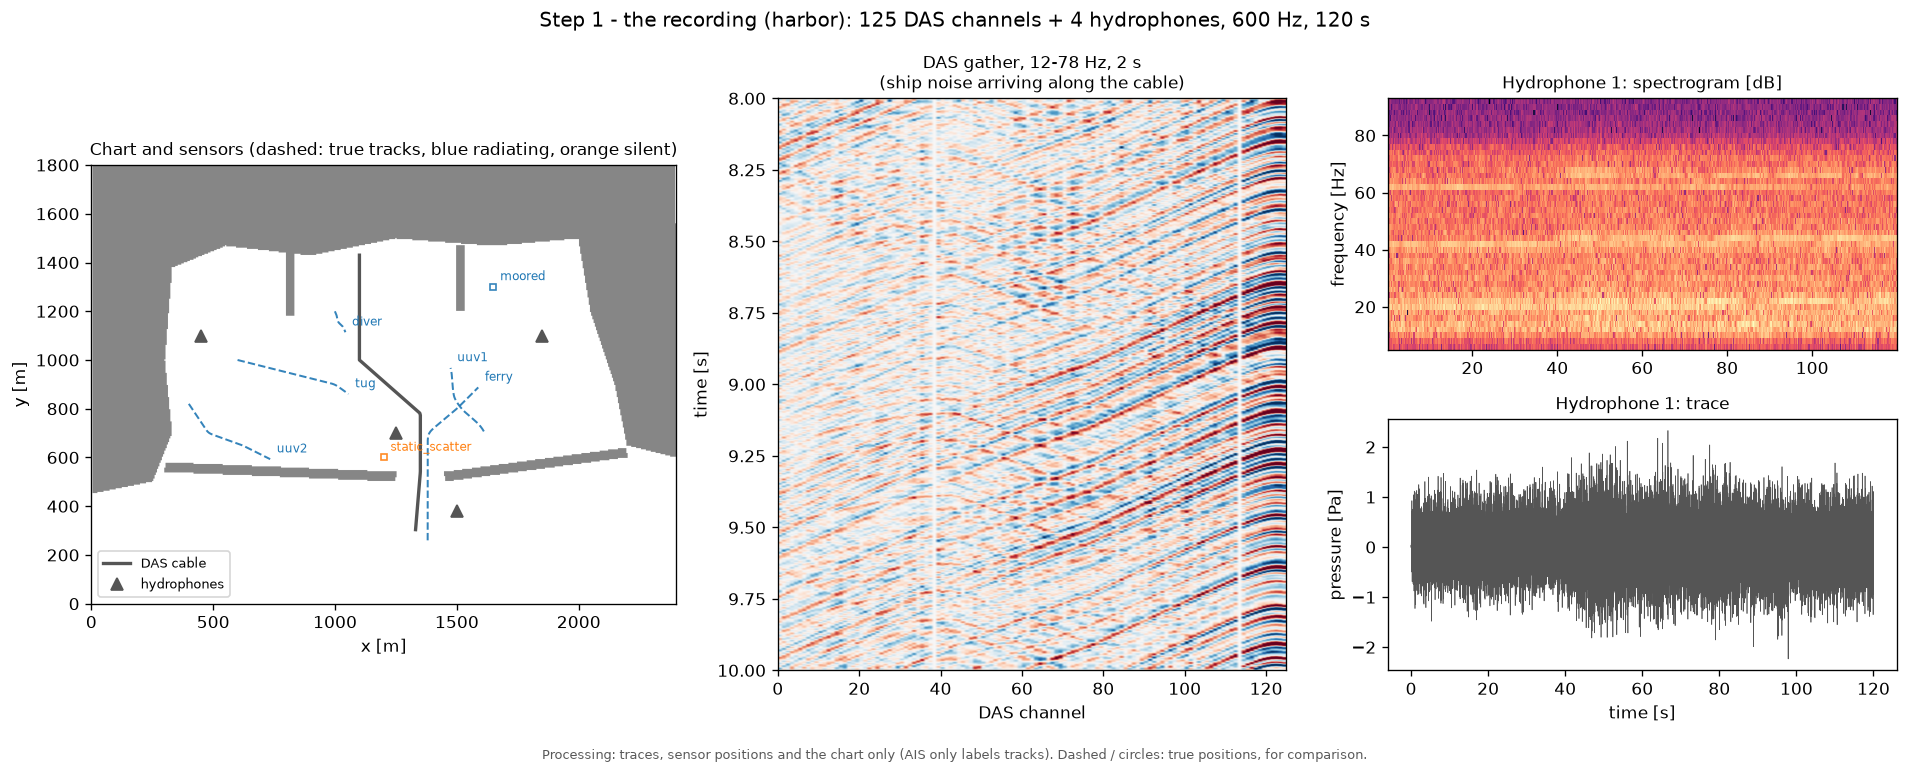
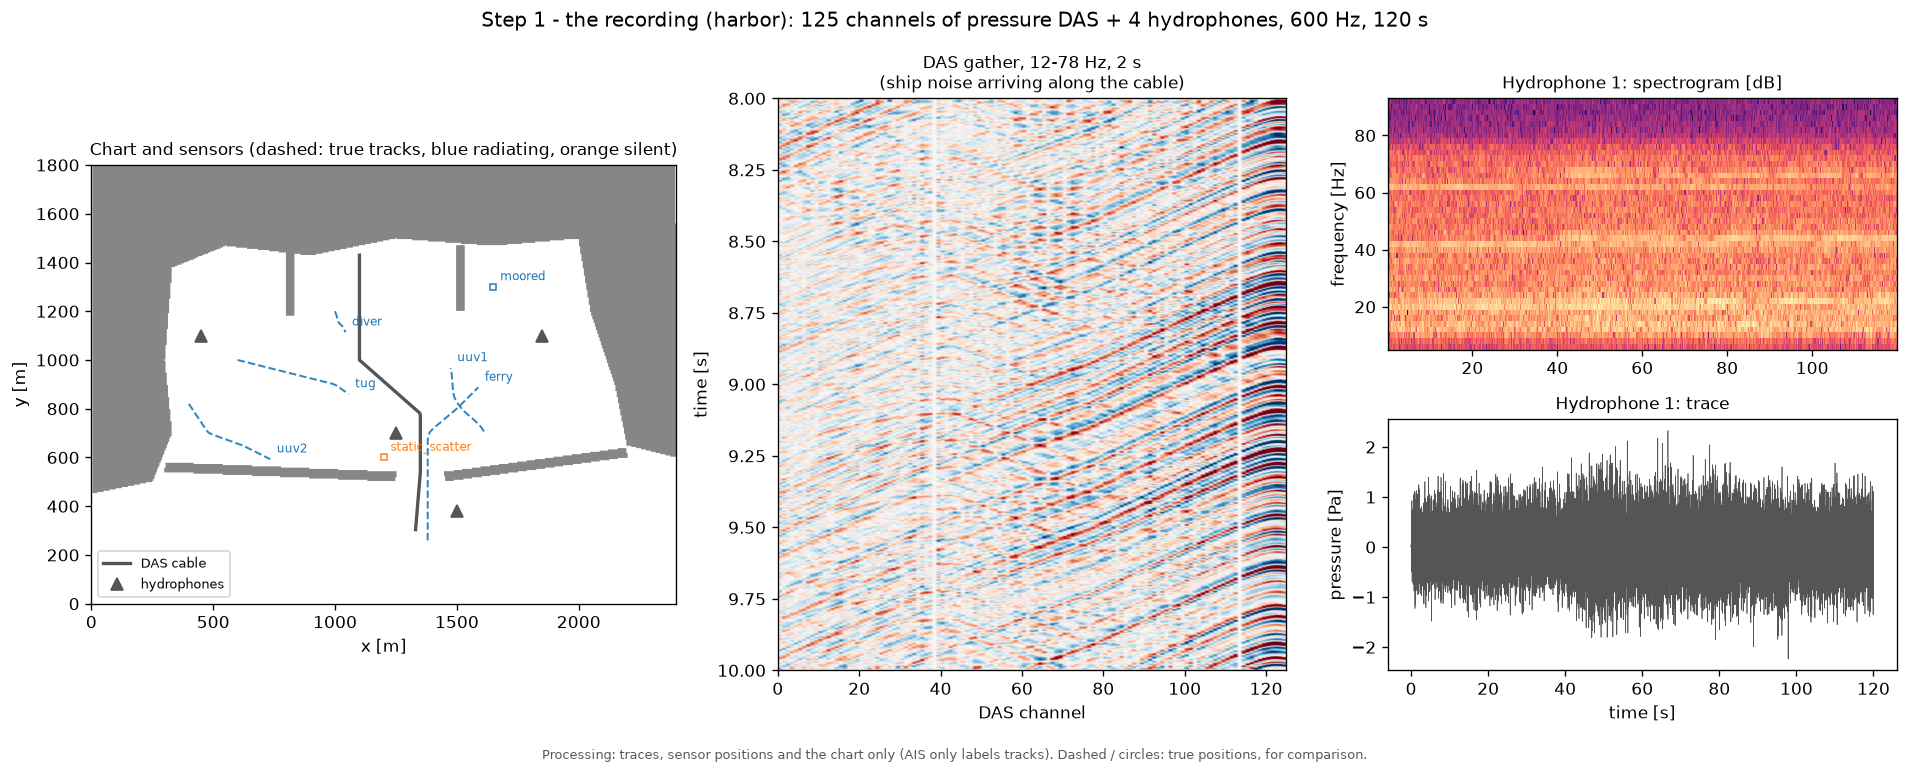
docs: say which run and which cable each statement is about
What was wrong: docs/harbor.md said the second UUV and every silent body of
the multi illuminator scene are "not detected anywhere", while the real
time table below gives uuv2 14 % (now 18 %) and uuv1 6 % (now 3 %) on the
same recording; the step 1 docstring and docs called every recording's
cable "a strain DAS cable" although the simple (and 5 m) harbor cables are
pressure mode; the run_all.sh line left out "simple" and its angle brackets
can render escaped.

What changed: the sentence names the batch runs it describes and points to
the real time result; step 1 and its docs say which cable mode each
recording has, and the step 1 title prints it from the layout; the
run_all.sh usage lists simple, bistatic, multistatic and harbor without
angle brackets.  Step 1 figures regenerated (title only).

Changed region(s): [[0.2474, 0.0, 0.7421, 0.062]]

diff --git a/examples/walkthrough/01_recording.py b/examples/walkthrough/01_recording.py
@@ -1,7 +1,9 @@
 #!/usr/bin/env python3
 """Step 1, the recording: what the system gets.
 
-The chart (water and land), the sensors (a strain DAS cable and four hydrophones) and the traces: the DAS
+The chart (water and land), the sensors (a DAS cable and four hydrophones; the cable is in strain mode, the second
+difference over its gauge length, on the bistatic and multistatic recordings and in pressure mode on the simple
+and the 5 m harbor ones, as the suptitle says) and the traces: the DAS
 gather (every channel against time) and the spectrogram of one hydrophone.  Ships, boats and bodies are
 somewhere in the water; the dashed lines show where (from the simulation, for comparison only).
 
@@ -51,7 +53,9 @@ ax.plot(tt, obs.traces[h], lw=0.4, color=c.SENSOR)
 ax.set_xlabel("time [s]")
 ax.set_ylabel("pressure [Pa]")
 ax.set_title("Hydrophone 1: trace", fontsize=10)
-fig.suptitle(f"Step 1 - the recording ({a.dataset}): {lay.n_das} DAS channels + {lay.n_hydrophones} hydrophones, "
+cab = lay.cables[0]
+mode = f"strain DAS, {cab.gauge_length:g} m gauge" if cab.is_strain else "pressure DAS"
+fig.suptitle(f"Step 1 - the recording ({a.dataset}): {lay.n_das} channels of {mode} + {lay.n_hydrophones} hydrophones, "
              f"{fs:.0f} Hz, {obs.traces.shape[1] / fs:.0f} s", fontsize=12)
 fig.tight_layout()
 c.save(fig, c.out_dir(a) / "01_recording.png", c.NOTE)

diff --git a/docs/harbor.md b/docs/harbor.md
@@ -18,16 +18,18 @@ scene (3 to 18 %) and the quiet UUVs of the 5 m harbor.**  See
 ## Walkthrough: from the traces to the harbor picture
 
 `examples/walkthrough/` takes one recording through the whole real-time chain, one figure per step
-(`./examples/walkthrough/run_all.sh <bistatic|multistatic|harbor> --cuda`; each script also runs on its
-own). The chain runs once (about 30 s on the GPU) and is cached in `output/walkthrough/<dataset>/cache/`;
+(`./examples/walkthrough/run_all.sh DATASET --cuda`, DATASET one of `simple`, `bistatic`, `multistatic`, `harbor`;
+each script also runs on its own). The chain runs once (about 30 s on the GPU) and is cached in `output/walkthrough/<dataset>/cache/`;
 the figures go to `output/walkthrough/<dataset>/`. Nothing in the processing reads the truth or the AIS
 reports: the truth is drawn (dashed lines, circles) only to show where the objects really are, and AIS
 enters in step 4 only, to name what was found. The figures below are the multistatic recording (three
 ships, two UUVs, a diver, six pilings and a moored hull) and, for the echo steps, the [simple
 harbor](#simple-harbor-easier-wavefields) (a ferry and a boat lighting a silent UUV and a wreck).
 
-**1. The recording** (`01_recording.py`). What the system gets: the chart, the sensor positions (a strain
-DAS cable and four hydrophones) and the traces.
+**1. The recording** (`01_recording.py`). What the system gets: the chart, the sensor positions (a DAS cable and
+four hydrophones) and the traces. The cable of the bistatic and multistatic recordings is in strain mode (the
+second difference of the field over the gauge length, as an interrogator measures it); the simple harbor and the
+5 m harbor have a pressure mode cable.
 
 ![step 1](../output/walkthrough/multistatic/01_recording.png)
 
@@ -423,9 +425,11 @@ each dataset.
 | multistatic | echo, ferry illuminates | — (tug 23 %: its direct path dominates the map) | both UUVs, diver, six pilings, moored hull | 2.0 per frame | 27 s |
 | harbor (5 m, 120 s) | passive | ferry 2 %, tug 3 % | moored ship, both UUVs, diver | 2.9 per frame | 9 s |
 
-Not detected anywhere: the second UUV, the diver, the pilings, the moored hull, the radiating UUVs of
-the 5 m dataset, and every silent body in the multi illuminator scene, where the direct paths of the
-ships that do not illuminate are left in the traces and swamp the echo map.
+Not detected by these batch runs (one illuminator, `harbor_detect.py`): the second UUV, the diver, the
+pilings, the moored hull, the radiating UUVs of the 5 m dataset, and every silent body of the multistatic
+recording, where the direct paths of the ships that do not illuminate are left in the traces and swamp the echo
+map. The real-time chain below removes every tracked ship's direct path and, on the same multistatic
+recording, finds uuv2 in 18 % and uuv1 in 3 % of the frames.
 
 **Real time, located from the traces alone** (`water/streaming.py`, `examples/harbor_stream.py`). AIS
 does not enter the processing: it is used afterwards, to label what was located (`ais_crosscheck`).
@@ -764,7 +768,7 @@ deliberately not started.
 | `examples/harbor_cancellation_depth.py` | Stage 0a: ECA cancellation depth of the ferry signature alone against range, stationary and moving, three references; `--doppler`, `--smooth`, `--gate` and `--propagator` (free field by default, `_freefield` suffix; `simulator` for the dispersion corrected replicas) variants write suffixed outputs | 6 cached FDTD runs (12 min on the GPU) + about 40 min of processing |
 | `examples/harbor_bistatic_ablation.py` | Stage 0b: `run_bistatic` on the coarse and fine datasets with the truth inputs removed one at a time (`--doppler` adds the per sample delay ECA variants, `--smooth` the track fit, `--propagator simulator` the dispersion corrected replicas, `--cuda` the GPU chain); every result records its `provenance` | about 1.5 h of processing for both datasets |
 | `examples/harbor_multistatic_dataset.py` | Stage 0c: three illuminators and ten bodies with combined scattering, truth per frame, levels, map, and a ferry-only check map given the truth | 6 FDTD runs (fine: about 1 h on the GPU) |
-| `examples/walkthrough/` | [Walkthrough](#walkthrough-from-the-traces-to-the-harbor-picture): seven scripts, one figure per step of the chain (recording, passive map, tracks, AIS labels, direct path removal, echo map, harbor picture); `run_all.sh <dataset> --cuda` | about 1 min per recording |
+| `examples/walkthrough/` | [Walkthrough](#walkthrough-from-the-traces-to-the-harbor-picture): seven scripts, one figure per step of the chain (recording, passive map, tracks, AIS labels, direct path removal, echo map, harbor picture); `run_all.sh DATASET --cuda` | about 1 min per recording |
 | `examples/harbor_stream.py` | The real-time system (`water/streaming.py`): passive chain without AIS, tracker, echo chain on the tracks, AIS labels afterwards; feeds a recording in 0.25 s chunks, reports compute per second of data and latency, checks every output against the true positions; `--dataset multistatic|bistatic|harbor [--echo] --cuda`; writes `output/harbor_stream/<dataset>/` | 15 to 60 s per run |
 | `examples/harbor_picture_stage1.py` | Harbor picture stage 1: the [scoreboard](architecture.md#scoreboard) on the bistatic, multistatic and 5 m harbor datasets, tuning set (noise seed 0) and test set (seeds 1 to 5, remixed from the cached gathers), passive and echo chains; `--dataset`, `--chain`, `--propagator {free_field,simulator}`, `--cuda`, `--workers`; writes `output/harbor_picture/stage1/` | about 1.2 h on the GPU (runs are cached in `cache/`) |
 | `examples/harbor_domain_video.py`, `examples/harbor_stack_movie.py`, `examples/harbor_presentation.py` | Visualize passive/bistatic scans, echo stacks, or the scenario pipeline | varies |
